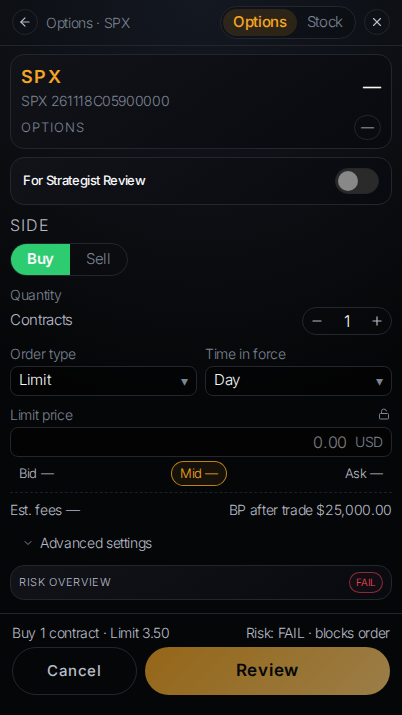
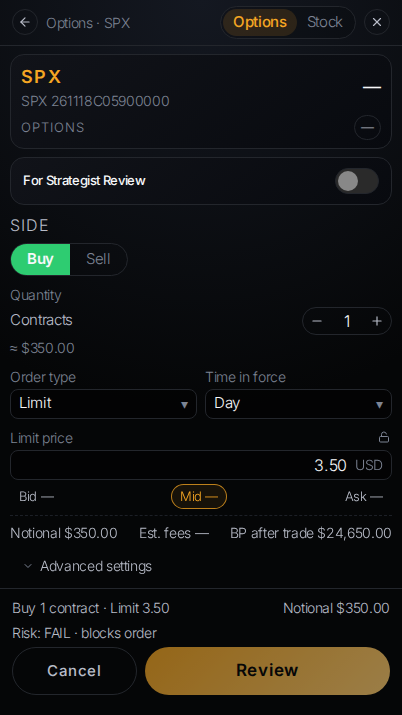
chore(qa): rebase PR B on A and refresh screenshot pairs
Restore Strategy Builder and order-ticket-math on before captures, use
realistic AAPL bid/ask mocks, and show entered limit on option-fail after.

diff --git a/artifacts/alpha-terminal/e2e/fixtures/mockNetwork.ts b/artifacts/alpha-terminal/e2e/fixtures/mockNetwork.ts
@@ -59,8 +59,8 @@ export async function installQaNetworkMocks(
           json({
             symbol: "AAPL",
             last: 187.42,
-            bid: 187.4,
-            ask: 187.44,
+            bid: 187.41,
+            ask: 187.43,
             change: 1.2,
             percentChange: 0.65,
           }),
@@ -90,7 +90,7 @@ export async function installQaNetworkMocks(
         json({
           status: "connected",
           quotes: opts?.aaplStock
-            ? [{ symbol: "AAPL", last: 187.421, bid: 187.405, ask: 187.439 }]
+            ? [{ symbol: "AAPL", last: 187.421, bid: 187.41, ask: 187.43 }]
             : [{ symbol: "SPX", last: 5900.5, bid: 5900.25, ask: 5900.75 }],
         }),
       );
@@ -170,7 +170,7 @@ export async function installQaNetworkMocks(
           data: {
             status: "connected",
             quotes: opts?.aaplStock
-              ? [{ symbol: "AAPL", last: 187.421, bid: 187.405, ask: 187.439 }]
+              ? [{ symbol: "AAPL", last: 187.421, bid: 187.41, ask: 187.43 }]
               : [{ symbol: "SPX", last: 5900.5, bid: 5900.25, ask: 5900.75 }],
           },
         }),

diff --git a/artifacts/alpha-terminal/e2e/qa-pr-b-screenshots.spec.ts b/artifacts/alpha-terminal/e2e/qa-pr-b-screenshots.spec.ts
@@ -172,10 +172,13 @@ test.describe("QA PR B screenshots", () => {
     const review = page.getByRole("button", { name: "Review" });
     await expect(review).toBeVisible({ timeout: 60_000 });
     await mergeOptionTicks(page, [{ key: SPX_ATM_CALL_SYMBOL, bid: 3.8, ask: 3.2, last: 3.5 }]);
+    const limitInput = page.getByPlaceholder("0.00").first();
     if (variant === "after") {
+      await limitInput.fill("3.50");
       await page.waitForTimeout(800);
       await expect(page.getByText("Risk: FAIL · blocks order")).toBeVisible({ timeout: 20_000 });
       await expect(review).toBeDisabled();
+      await expect(limitInput).toHaveValue("3.50");
     }
     await capturePair(page, "option-fail-review");
   });

diff --git a/docs/qa-pr-b/README.md b/docs/qa-pr-b/README.md
@@ -1,6 +1,6 @@
 # QA PR B screenshots
 
-Playwright captures against the real Vite dev server (`/qa` harness, mocked API/WS). Before shots temporarily swap `OrderTicket.tsx` and `OptionsTab.tsx` from `main` ([`scripts/qa-capture-before-screenshots.sh`](../../scripts/qa-capture-before-screenshots.sh)).
+Playwright captures against the real Vite dev server (`/qa` harness, mocked API/WS). Before shots temporarily swap `OrderTicket.tsx`, `OptionsTab.tsx`, `StrategyBuilder.tsx`, and `lib/order-ticket-math` from `main` ([`scripts/qa-capture-before-screenshots.sh`](../../scripts/qa-capture-before-screenshots.sh)).
 
 ```bash
 pnpm --filter @workspace/alpha-terminal run test:e2e:qa-screenshots:before
@@ -13,8 +13,8 @@ Pairs that were **byte-identical** between before and after were dropped (includ
 |-------------|---------------------------|
 | `option-open` | Stream bid/ask on ticket; SPX **$0.10** tick snap on Mid (**3.78 → 3.80**). |
 | `debit-vertical` | **Positive** multi-leg spread NBBO (2.45 / mid / 2.60) after NBBO direction fix. |
-| `stock` | Equity limit **cent** formatting from sub-penny mid (187.405–187.439 → **187.42**). |
+| `stock` | Equity limit **cent** formatting: live **187.41 / 187.43** stream vs mid rounded to **187.42**. |
 | `review` | Real **Order Confirmation** with enabled Review + snapped limit (not disabled form). |
-| `option-fail-review` | **FAIL** liquidity blocks Review when a leg quote is crossed. |
+| `option-fail-review` | **FAIL** liquidity with entered limit **3.50** visible; Review stays disabled. |
 
 Each kept scenario has `before-*` and `after-*` at **440×956** and **402×715** when a delta exists.
